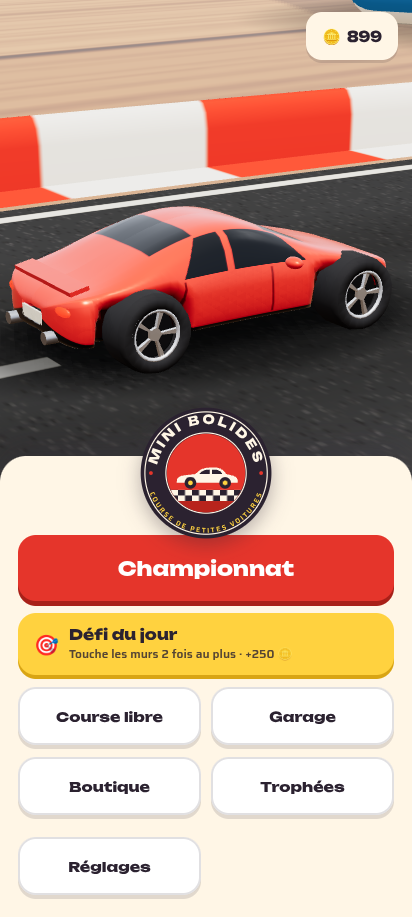
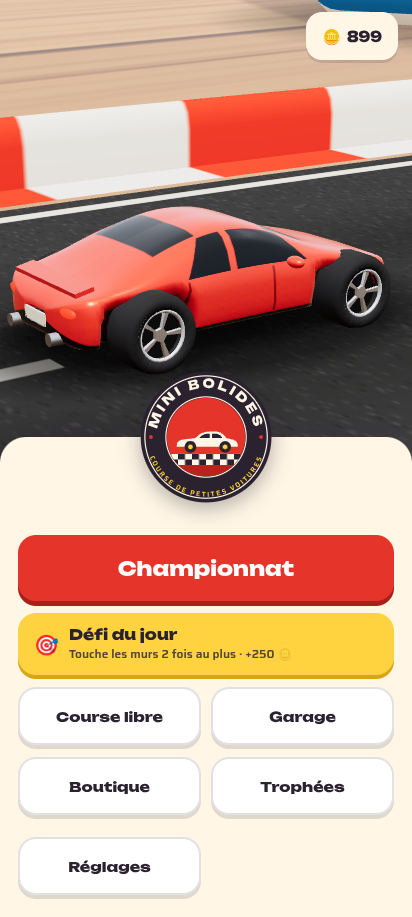
Mini Bolides 0.9.22 : contacts miel/boîtes/billes selon la carrosserie, sa bille ricoche sur sa voiture, écusson décollé du bouton Championnat

diff --git a/android/app/src/main/assets/www/js/sim.js b/android/app/src/main/assets/www/js/sim.js
@@ -10,7 +10,15 @@
   const sstep = (a, b, x) => { const t = clamp((x - a) / (b - a), 0, 1); return t * t * (3 - 2 * t); };
   const STEER_BASE = 0.5, STEER_LOOK = 9, WALL_OFF = 0.2, ASSIST_BACK = 0.8, NEUTRAL_BACK = 0.22, DRIFT_ARM = 0.3, DRIFT_L1 = 0.35, DRIFT_L2 = 0.8, DUEL_GAP = 30;
   const SC_EDGE = 5.4;                                     // entrée du raccourci : coller au bord, entre les deux poteaux
-  const CAR_R = 2.3, BOX_R = 2.7, COIN_R = 3.4, SYRUP_R = 3.4, RAMP_H = 1.6, RAMP_N = 5;
+  const CAR_R = 2.3, COIN_R = 3.4, RAMP_H = 1.6, RAMP_N = 5;
+  // Contacts avec les objets au sol : la voiture est une gélule (axe ±CAR_AXIS, rayon CAR_SIDE) qui suit
+  // sa carrosserie (~4,9 m sur 2,3 m), et non plus un point au centre : le nez ou le flanc comptent aussi.
+  const CAR_AXIS = 1.3, CAR_SIDE = 1.15, BOX_HALF = 1.2, HONEY_R = 3.3, HONEY_DIP = 0.7;
+  const bodyDist = (c, x, z) => {
+    const dx = x - c.x, dz = z - c.z, ch = Math.cos(c.h), sh = Math.sin(c.h);
+    const along = dx * ch + dz * sh, lat = -dx * sh + dz * ch, a = Math.max(-CAR_AXIS, Math.min(CAR_AXIS, along));
+    return Math.hypot(along - a, lat);
+  };
 
   class Race {
     constructor(opts) {
@@ -505,8 +513,7 @@
       for (const b of this.boxes) {
         if (b.wait > 0) { b.wait -= DT; continue; }
         for (const c of this.cars) {
-          const dx = c.x - b.x, dz = c.z - b.z;
-          if (dx * dx + dz * dz < BOX_R * BOX_R) {
+          if (bodyDist(c, b.x, b.z) < BOX_HALF + CAR_SIDE) {
             b.wait = c.isPlayer ? 2.5 : 1;                      // les rivaux en tête ne vident pas la piste devant le joueur
             if (!c.item && !c.finished) {
               c.item = this._rollItem(c);
@@ -532,8 +539,7 @@
         s.life -= DT;
         if (s.life <= 0) { this.syrups.splice(i, 1); continue; }
         for (const c of this.cars) {
-          const dx = c.x - s.x, dz = c.z - s.z;
-          if (c.y < 0.6 && dx * dx + dz * dz < SYRUP_R * SYRUP_R) {   // en l'air, on passe au-dessus
+          if (c.y < 0.6 && bodyDist(c, s.x, s.z) < HONEY_R + CAR_SIDE - HONEY_DIP) {   // une roue dans la flaque suffit ; en l'air, on passe au-dessus
             if (c.shield > 0) { c.shield = 0; this.events.push({ t: 'pop', car: c.id, x: c.x, z: c.z }); } else {
               c.spin = 0.6; c.drifting = false; c.charge = 0; c.v *= 0.85;   // le miel colle, sans ruiner la course
               this.events.push({ t: 'splat', car: c.id, x: c.x, z: c.z });
@@ -547,7 +553,7 @@
     }
   }
 
-  MB.MARBLE_R = 2.6;
+  MB.MARBLE_R = 1.1;                                                 // rayon de la bille dessinée
   // Billes : elles roulent tout droit, rebondissent sur les murs du circuit et font tourner la voiture touchée.
   Race.prototype._marbles = function () {
     const t = this.track, lim = t.width / 2 - 0.7;
@@ -564,9 +570,12 @@
         if (this.player && Math.hypot(m.x - this.player.x, m.z - this.player.z) < 60) this.events.push({ t: 'marbleBounce' });
       }
       for (const c of this.cars) {
-        if (c.id === m.owner || c.y > 0.8 || c.finished) continue;           // sa propre bille, même revenue d'un rebond, ne touche pas
-        const dx = c.x - m.x, dz = c.z - m.z;
-        if (dx * dx + dz * dz > MB.MARBLE_R * MB.MARBLE_R) continue;
+        if (c.y > 0.8 || c.finished || bodyDist(c, m.x, m.z) > MB.MARBLE_R + CAR_SIDE) continue;
+        if (c.id === m.owner) {                                           // sa propre bille revenue d'un rebond : elle ricoche sur la carrosserie
+          const nx = m.x - c.x, nz = m.z - c.z, nl = Math.hypot(nx, nz) || 1, vx = Math.cos(m.h) * m.v - Math.cos(c.h) * c.v, vz = Math.sin(m.h) * m.v - Math.sin(c.h) * c.v;
+          if (vx * nx + vz * nz < 0) { const away = Math.atan2(nz, nx); m.h = away; m.v = Math.max(m.v * 0.7, c.v + 8); if (c.isPlayer) this.events.push({ t: 'marbleBounce' }); }
+          continue;
+        }
         if (c.shield > 0) { c.shield = 0; this.events.push({ t: 'pop', car: c.id, x: c.x, z: c.z }); }
         else {
           c.spin = 0.6; c.drifting = false; c.charge = 0; c.v *= 0.8;

diff --git a/js/sim.js b/js/sim.js
@@ -10,7 +10,15 @@
   const sstep = (a, b, x) => { const t = clamp((x - a) / (b - a), 0, 1); return t * t * (3 - 2 * t); };
   const STEER_BASE = 0.5, STEER_LOOK = 9, WALL_OFF = 0.2, ASSIST_BACK = 0.8, NEUTRAL_BACK = 0.22, DRIFT_ARM = 0.3, DRIFT_L1 = 0.35, DRIFT_L2 = 0.8, DUEL_GAP = 30;
   const SC_EDGE = 5.4;                                     // entrée du raccourci : coller au bord, entre les deux poteaux
-  const CAR_R = 2.3, BOX_R = 2.7, COIN_R = 3.4, SYRUP_R = 3.4, RAMP_H = 1.6, RAMP_N = 5;
+  const CAR_R = 2.3, COIN_R = 3.4, RAMP_H = 1.6, RAMP_N = 5;
+  // Contacts avec les objets au sol : la voiture est une gélule (axe ±CAR_AXIS, rayon CAR_SIDE) qui suit
+  // sa carrosserie (~4,9 m sur 2,3 m), et non plus un point au centre : le nez ou le flanc comptent aussi.
+  const CAR_AXIS = 1.3, CAR_SIDE = 1.15, BOX_HALF = 1.2, HONEY_R = 3.3, HONEY_DIP = 0.7;
+  const bodyDist = (c, x, z) => {
+    const dx = x - c.x, dz = z - c.z, ch = Math.cos(c.h), sh = Math.sin(c.h);
+    const along = dx * ch + dz * sh, lat = -dx * sh + dz * ch, a = Math.max(-CAR_AXIS, Math.min(CAR_AXIS, along));
+    return Math.hypot(along - a, lat);
+  };
 
   class Race {
     constructor(opts) {
@@ -505,8 +513,7 @@
       for (const b of this.boxes) {
         if (b.wait > 0) { b.wait -= DT; continue; }
         for (const c of this.cars) {
-          const dx = c.x - b.x, dz = c.z - b.z;
-          if (dx * dx + dz * dz < BOX_R * BOX_R) {
+          if (bodyDist(c, b.x, b.z) < BOX_HALF + CAR_SIDE) {
             b.wait = c.isPlayer ? 2.5 : 1;                      // les rivaux en tête ne vident pas la piste devant le joueur
             if (!c.item && !c.finished) {
               c.item = this._rollItem(c);
@@ -532,8 +539,7 @@
         s.life -= DT;
         if (s.life <= 0) { this.syrups.splice(i, 1); continue; }
         for (const c of this.cars) {
-          const dx = c.x - s.x, dz = c.z - s.z;
-          if (c.y < 0.6 && dx * dx + dz * dz < SYRUP_R * SYRUP_R) {   // en l'air, on passe au-dessus
+          if (c.y < 0.6 && bodyDist(c, s.x, s.z) < HONEY_R + CAR_SIDE - HONEY_DIP) {   // une roue dans la flaque suffit ; en l'air, on passe au-dessus
             if (c.shield > 0) { c.shield = 0; this.events.push({ t: 'pop', car: c.id, x: c.x, z: c.z }); } else {
               c.spin = 0.6; c.drifting = false; c.charge = 0; c.v *= 0.85;   // le miel colle, sans ruiner la course
               this.events.push({ t: 'splat', car: c.id, x: c.x, z: c.z });
@@ -547,7 +553,7 @@
     }
   }
 
-  MB.MARBLE_R = 2.6;
+  MB.MARBLE_R = 1.1;                                                 // rayon de la bille dessinée
   // Billes : elles roulent tout droit, rebondissent sur les murs du circuit et font tourner la voiture touchée.
   Race.prototype._marbles = function () {
     const t = this.track, lim = t.width / 2 - 0.7;
@@ -564,9 +570,12 @@
         if (this.player && Math.hypot(m.x - this.player.x, m.z - this.player.z) < 60) this.events.push({ t: 'marbleBounce' });
       }
       for (const c of this.cars) {
-        if (c.id === m.owner || c.y > 0.8 || c.finished) continue;           // sa propre bille, même revenue d'un rebond, ne touche pas
-        const dx = c.x - m.x, dz = c.z - m.z;
-        if (dx * dx + dz * dz > MB.MARBLE_R * MB.MARBLE_R) continue;
+        if (c.y > 0.8 || c.finished || bodyDist(c, m.x, m.z) > MB.MARBLE_R + CAR_SIDE) continue;
+        if (c.id === m.owner) {                                           // sa propre bille revenue d'un rebond : elle ricoche sur la carrosserie
+          const nx = m.x - c.x, nz = m.z - c.z, nl = Math.hypot(nx, nz) || 1, vx = Math.cos(m.h) * m.v - Math.cos(c.h) * c.v, vz = Math.sin(m.h) * m.v - Math.sin(c.h) * c.v;
+          if (vx * nx + vz * nz < 0) { const away = Math.atan2(nz, nx); m.h = away; m.v = Math.max(m.v * 0.7, c.v + 8); if (c.isPlayer) this.events.push({ t: 'marbleBounce' }); }
+          continue;
+        }
         if (c.shield > 0) { c.shield = 0; this.events.push({ t: 'pop', car: c.id, x: c.x, z: c.z }); }
         else {
           c.spin = 0.6; c.drifting = false; c.charge = 0; c.v *= 0.8;

diff --git a/android/app/src/main/assets/www/index.html b/android/app/src/main/assets/www/index.html
@@ -25,8 +25,8 @@ h1, h2 { font-family: var(--display); margin: 0; letter-spacing: -.01em; }
 h2 { font-size: 22px; font-weight: 800; }
 /* Écusson à cheval sur le bord de la feuille de boutons : la voiture au-dessus reste libre. */
 #home { --lg: min(34vw, 17vh, 150px); }
-.logo { position: relative; z-index: 2; display: block; flex: none; width: var(--lg); height: var(--lg); margin: auto auto calc(var(--lg) * -0.62); filter: drop-shadow(0 6px 10px rgba(43, 34, 48, .35)); }
-#home .sheet { margin-top: 0; padding-top: calc(var(--lg) * 0.38 + 14px); }
+.logo { position: relative; z-index: 2; display: block; flex: none; width: var(--lg); height: var(--lg); margin: auto auto calc(var(--lg) * -0.5); filter: drop-shadow(0 6px 10px rgba(43, 34, 48, .35)); }
+#home .sheet { margin-top: 0; padding-top: calc(var(--lg) * 0.5 + 16px); }
 .btn { display: block; width: 100%; min-height: 58px; padding: 12px 16px; margin-top: 12px; border-radius: 18px; font-family: var(--display); font-weight: 800; font-size: 17px;
   background: #fff; box-shadow: inset 0 0 0 2px var(--line), 0 4px 0 var(--line); transition: transform .08s; }
 .btn:active { transform: translateY(3px); }

diff --git a/index.html b/index.html
@@ -25,8 +25,8 @@ h1, h2 { font-family: var(--display); margin: 0; letter-spacing: -.01em; }
 h2 { font-size: 22px; font-weight: 800; }
 /* Écusson à cheval sur le bord de la feuille de boutons : la voiture au-dessus reste libre. */
 #home { --lg: min(34vw, 17vh, 150px); }
-.logo { position: relative; z-index: 2; display: block; flex: none; width: var(--lg); height: var(--lg); margin: auto auto calc(var(--lg) * -0.62); filter: drop-shadow(0 6px 10px rgba(43, 34, 48, .35)); }
-#home .sheet { margin-top: 0; padding-top: calc(var(--lg) * 0.38 + 14px); }
+.logo { position: relative; z-index: 2; display: block; flex: none; width: var(--lg); height: var(--lg); margin: auto auto calc(var(--lg) * -0.5); filter: drop-shadow(0 6px 10px rgba(43, 34, 48, .35)); }
+#home .sheet { margin-top: 0; padding-top: calc(var(--lg) * 0.5 + 16px); }
 .btn { display: block; width: 100%; min-height: 58px; padding: 12px 16px; margin-top: 12px; border-radius: 18px; font-family: var(--display); font-weight: 800; font-size: 17px;
   background: #fff; box-shadow: inset 0 0 0 2px var(--line), 0 4px 0 var(--line); transition: transform .08s; }
 .btn:active { transform: translateY(3px); }
